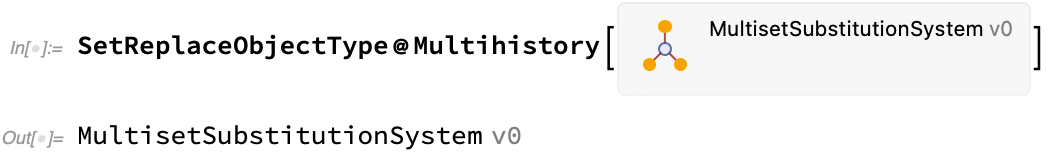
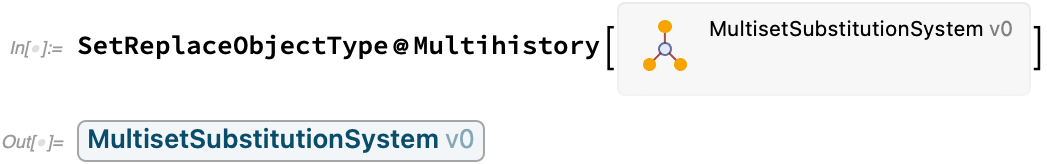
New boxes for SetReplaceType.

diff --git a/Kernel/A0$style.m b/Kernel/A0$style.m
@@ -22,6 +22,8 @@ PackageScope["$typeGraphEdgeStyle"]
 PackageScope["$typeGraphLayout"]
 PackageScope["$typeGraphBackground"]
 PackageScope["$evolutionObjectIcon"]
+PackageScope["$setReplaceTypeDisplayFunction"]
+PackageScope["$setReplaceTypeDisplayFunctionVersioned"]
 PackageScope["$destroyedEdgeStyle"]
 PackageScope["$createdEdgeStyle"]
 PackageScope["$destroyedAndCreatedEdgeStyle"]
@@ -102,6 +104,10 @@ $styleNames = KeySort /@ KeySort @ <|
     "Background" -> $typeGraphBackground
   |>,
   "EvolutionObject" -> <|"Icon" -> $evolutionObjectIcon|>,
+  "SetReplaceType" -> <|
+    "DisplayFunction" -> $setReplaceTypeDisplayFunction,
+    "DisplayFunctionVersioned" -> $setReplaceTypeDisplayFunctionVersioned
+  |>,
   "SpatialGraph" -> <|
     "DestroyedEdgeStyle" -> $destroyedEdgeStyle,
     "CreatedEdgeStyle" -> $createdEdgeStyle,
@@ -246,6 +252,35 @@ style[$lightTheme] = <|
 
   (* Evolution object *)
   $evolutionObjectIcon -> $graphIcon,
+
+  (* SetReplaceType *)
+  $setReplaceTypeDisplayFunction -> (FrameBox[
+    PanelBox[
+      GridBox[
+        {{StyleBox[#1, FontSize -> 13, FontColor -> RGBColor[0.034, 0.3, 0.42], FontWeight -> "SemiBold"]}},
+        BaselinePosition -> {1, 1}],
+      Background -> RGBColor[0.9517, 0.965, 0.971],
+      BaselinePosition -> Baseline,
+      FrameMargins -> {{3, 3}, {1.5, 1.5}}],
+    FrameMargins -> None,
+    FrameStyle -> RGBColor[0.65, 0.65, 0.65],
+    BaselinePosition -> Baseline,
+    RoundingRadius -> 4] &),
+
+  $setReplaceTypeDisplayFunctionVersioned -> (FrameBox[
+    PanelBox[
+      GridBox[{{
+          StyleBox[#1, FontSize -> 13, FontColor -> RGBColor[0.034, 0.3, 0.42], FontWeight -> "SemiBold"],
+          StyleBox[#2, FontColor -> RGBColor[0.517, 0.65, 0.71], FontSize -> 13, FontWeight -> "Plain"]}},
+        GridBoxSpacings -> {"Columns" -> {{0.3}}, "Rows" -> {{0}}},
+        BaselinePosition -> {1, 1}],
+      Background -> RGBColor[0.9517, 0.965, 0.971],
+      BaselinePosition -> Baseline,
+      FrameMargins -> {{3, 3}, {1.5, 1.5}}],
+    FrameMargins -> None,
+    FrameStyle -> RGBColor[0.65, 0.65, 0.65],
+    BaselinePosition -> Baseline,
+    RoundingRadius -> 4] &),
 
   (* Hypergraph diffs *)
   $destroyedEdgeStyle -> Directive[Hue[0.08, 0, 0.42], AbsoluteDashing[{1, 2}]],

diff --git a/Kernel/A1$typeSystem.m b/Kernel/A1$typeSystem.m
@@ -27,13 +27,22 @@ SetReplaceType[name$, version$] represents a SetReplace type.
 
 SyntaxInformation[SetReplaceType] = {"ArgumentsPattern" -> {name_, version_.}};
 
-SetReplaceType /: MakeBoxes[expr : SetReplaceType[name_], form : StandardForm | TraditionalForm] := With[{
-    nameBoxes = MakeBoxes[name, form]},
-  InterpretationBox[nameBoxes, expr, Selectable -> False]
+SetReplaceType /: MakeBoxes[
+      SetReplaceType[type_, version : (_Integer ? (# >= 0 &)) : Null], form : StandardForm | TraditionalForm] := With[{
+    versionString = If[version === Null, "", "v" <> ToString[version]]},
+  TemplateBox[
+    {MakeBoxes[type, form], MakeBoxes[versionString, form]},
+    "SetReplaceType",
+    DisplayFunction ->
+      style[$lightTheme][If[version === Null, $setReplaceTypeDisplayFunction, $setReplaceTypeDisplayFunctionVersioned]],
+    Editable -> False,
+    InterpretationFunction -> (RowBox[
+      {"SetReplaceType", "[", ToString[type], If[version === Null, Nothing, Splice[{",", ToString[version]}]], "]"}] &),
+    Selectable -> False]
 ];
 
 SetReplaceType /: MakeBoxes[
-      expr : SetReplaceType[name_, version_Integer ? (# >= 0 &)], form : StandardForm | TraditionalForm] := With[{
+      expr : SetReplaceType[name_, version_Integer ? (# >= 0 &)], form : TraditionalForm] := With[{
     nameBoxes = MakeBoxes[name, form],
     versionString = "v" <> ToString @ version},
   With[{boxes = RowBox[{nameBoxes, "\[ThickSpace]", StyleBox[versionString, FontColor -> Gray]}]},

diff --git a/Kernel/Multihistory.m b/Kernel/Multihistory.m
@@ -37,7 +37,7 @@ Multihistory /: MakeBoxes[object : Multihistory[_, _], format_] := ModuleScope[
     object,
     $genericMultihistoryIcon,
     (* Always displayed *)
-    {{BoxForm`SummaryItem[{type}]}},
+    {{BoxForm`SummaryItem[{TraditionalForm[type]}]}},
     (* Displayed on request *)
     {},
     format,

diff --git a/Documentation/TypeSystem/$SetReplaceTypes.md b/Documentation/TypeSystem/$SetReplaceTypes.md
@@ -6,4 +6,4 @@
 In[] := $SetReplaceTypes
 ```
 
-<img src="/Documentation/Images/$SetReplaceTypes.png" width="532.2">
+<img src="/Documentation/Images/$SetReplaceTypes.png" width="791.4">
